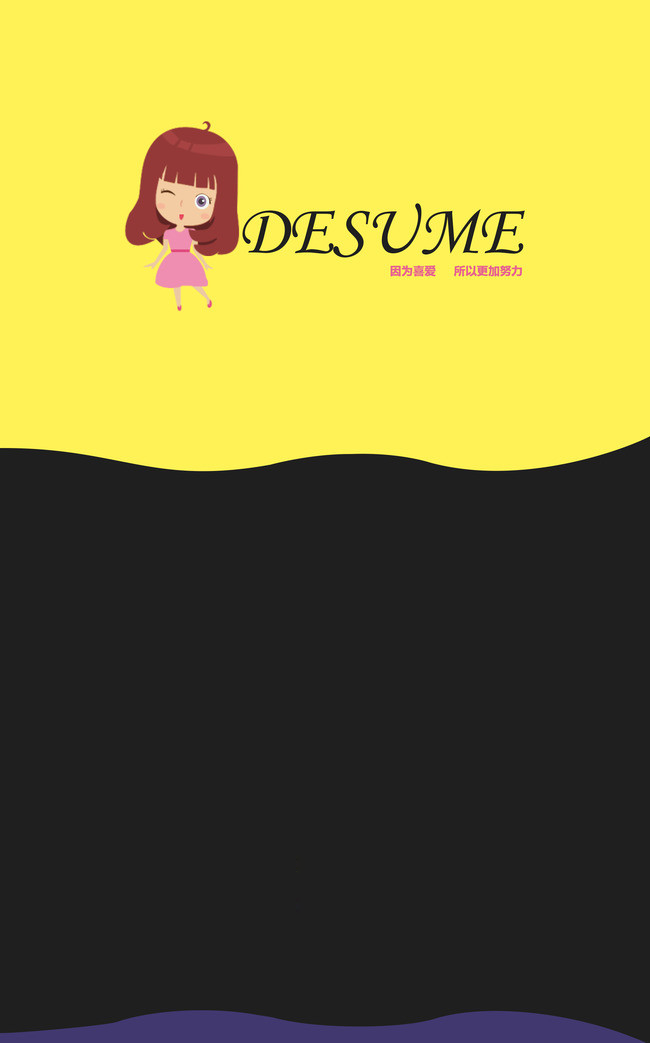
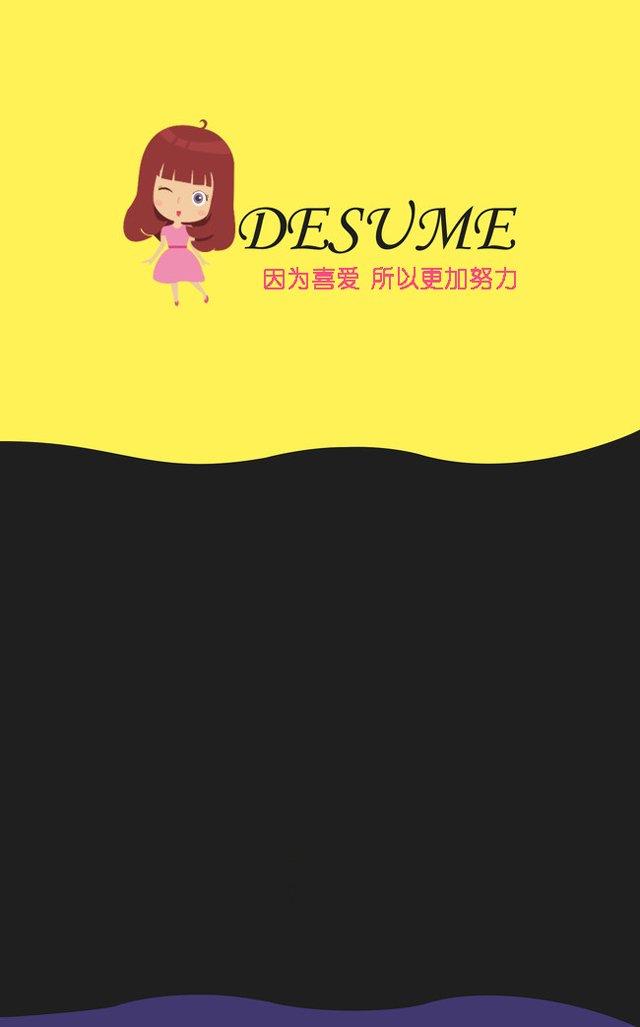
wodejianli

Changed region(s): [[0.4062, 0.2493, 0.8125, 0.2804]]

diff --git a/css/index.css b/css/index.css
@@ -11,7 +11,7 @@ html,body,.main{
     height: 100%;
 }
 .slide1{
-    background: url("../img/true.png") no-repeat;
+    background: url("../img/True.png") no-repeat;
     background-size: 100% 100%;
 }
 .slide2{
@@ -38,20 +38,20 @@ html,body,.main{
       width: 2.88rem;
       height: 2.88rem;
       left: 1.82rem;
-      top: 3.3rem;
+      top: 3.8rem;
       z-index: 10;
 }
 .slide1 img:nth-of-type(2){
     width: 3.18rem;
     height: 3.18rem;
     left: 1.68rem;
-    top: 3.14rem;
+    top: 3.64rem;
 }
 .slide1 img:nth-of-type(3){
     width: 3.48rem;
     height: 3.48rem;
     left: 1.52rem;
-    top: 3rem;
+    top: 3.5rem;
 }
 .swiper-wrapper-op{
     width: 3.8rem;
@@ -62,6 +62,7 @@ html,body,.main{
 }
 .swiper-wrapper-op span{
     display:inline-block;
+    margin-top: .6rem;
 }
 .slide1 p{
     color: #000;
@@ -74,7 +75,7 @@ html,body,.main{
     border-radius: 0.6rem;
     box-shadow: 0 0 0.1rem 0.1rem rgba(255,255,255,0.5);
     position: absolute;
-    top: 7.7rem;
+    top: 8.5rem;
     left: 1.3rem;
 }
 b{
@@ -82,7 +83,7 @@ b{
     height: 1.2rem;
     background: url("../img/tttttttt.png") no-repeat;
     position: absolute;
-    top: 9.6rem;
+    top: 11rem;
     left: 48%;
 }
 .div0{

diff --git a/index.html b/index.html
@@ -54,7 +54,7 @@
                     <span>专业技能</span>
                     <span>S K I L L</span>
                 </div>
-                <img src="img/HTML5.png" alt="">
+                <img src="img/html5.png" alt="">
                 <img src="img/css3.png" alt="">
                 <img src="img/js.png" alt="">
                 <img src="img/social-angular.png" alt="">
